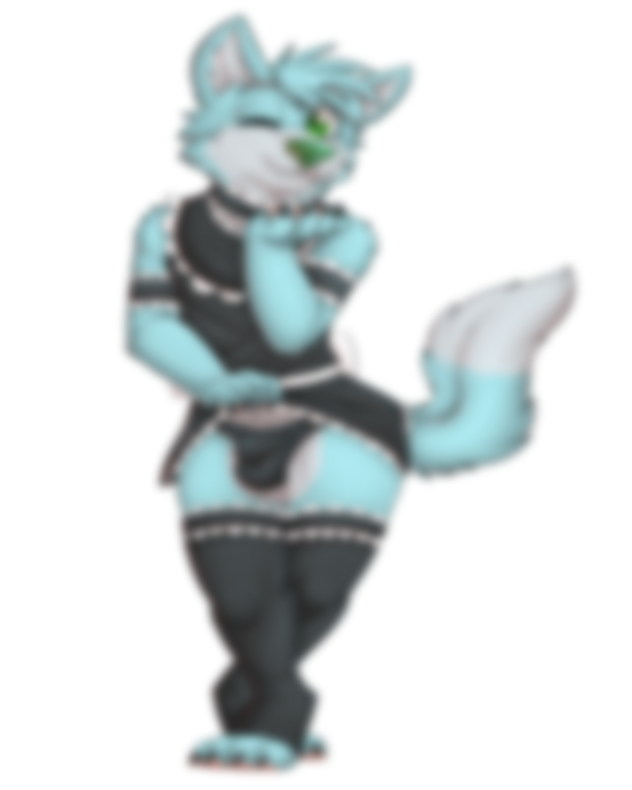
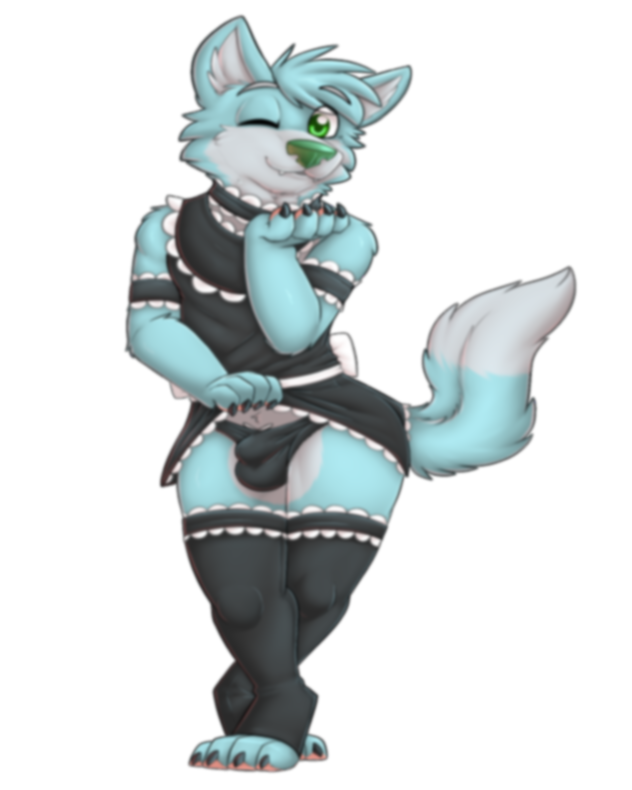
8px gaussian blur

diff --git a/config/danbooru_default_config.rb b/config/danbooru_default_config.rb
@@ -1000,7 +1000,7 @@ module Danbooru
     def mascots
       [
           ["/images/mascots/MaidBoyeMascot.png", "#222222", "<a href='https://twitter.com/Gaokunx3'>Gaokun</a> @ <a href='https://e621.net/posts/2907560'>e621</a>"],
-          ["/images/mascots/DonMascot.png", "#222222", "<a href='https://twitter.com/Gaokunx3'>Gaokun</a> @ <a href='https://e621.net/posts/2772476'>e621</a>"],
+          ["/images/mascots/DonUndiesMascot.png", "#222222", "<a href='https://twitter.com/Gaokunx3'>Gaokun</a> @ <a href='https://e621.net/posts/2772476'>e621</a>"],
           ["/images/mascots/DonMaidMascot.png", "#222222", "<a href='https://twitter.com/Gaokunx3'>Gaokun</a> @ <a href='https://e621.net/posts/2907536'>e621</a>"]
       ]
     end
